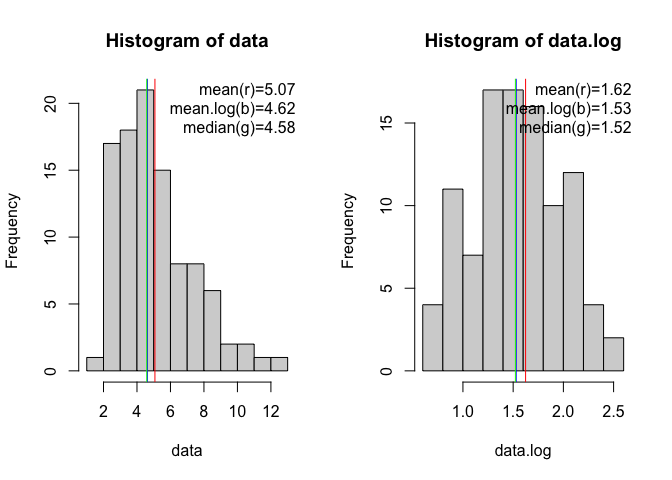
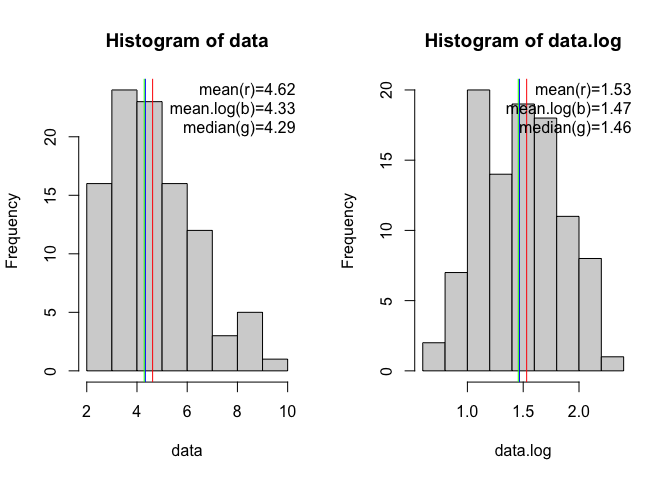
20220504

diff --git a/README.md b/README.md
@@ -54,10 +54,10 @@ normalityCheckLogND(logND)
     #>  Shapiro-Wilk normality test (null hypothesis: data is ND)
     #> 
     #> data:  data.log
-    #> W = 0.98471, p-value = 0.3027
+    #> W = 0.98226, p-value = 0.1987
 
 `meanIntervalLogND` calculates the interval estimate of mean for log
-normal distribution using Bootstrap method.
+normal distribution using Bootstrap.
 
 ``` r
 meanIntervalLogND(logND, graphic=TRUE)
@@ -66,4 +66,4 @@ meanIntervalLogND(logND, graphic=TRUE)
 <img src="man/figures/README-example3-1.png" width="100%" />
 
     #>     2.5%      50%    97.5% 
-    #> 4.625328 5.063484 5.572725
+    #> 4.299479 4.605414 4.935327
